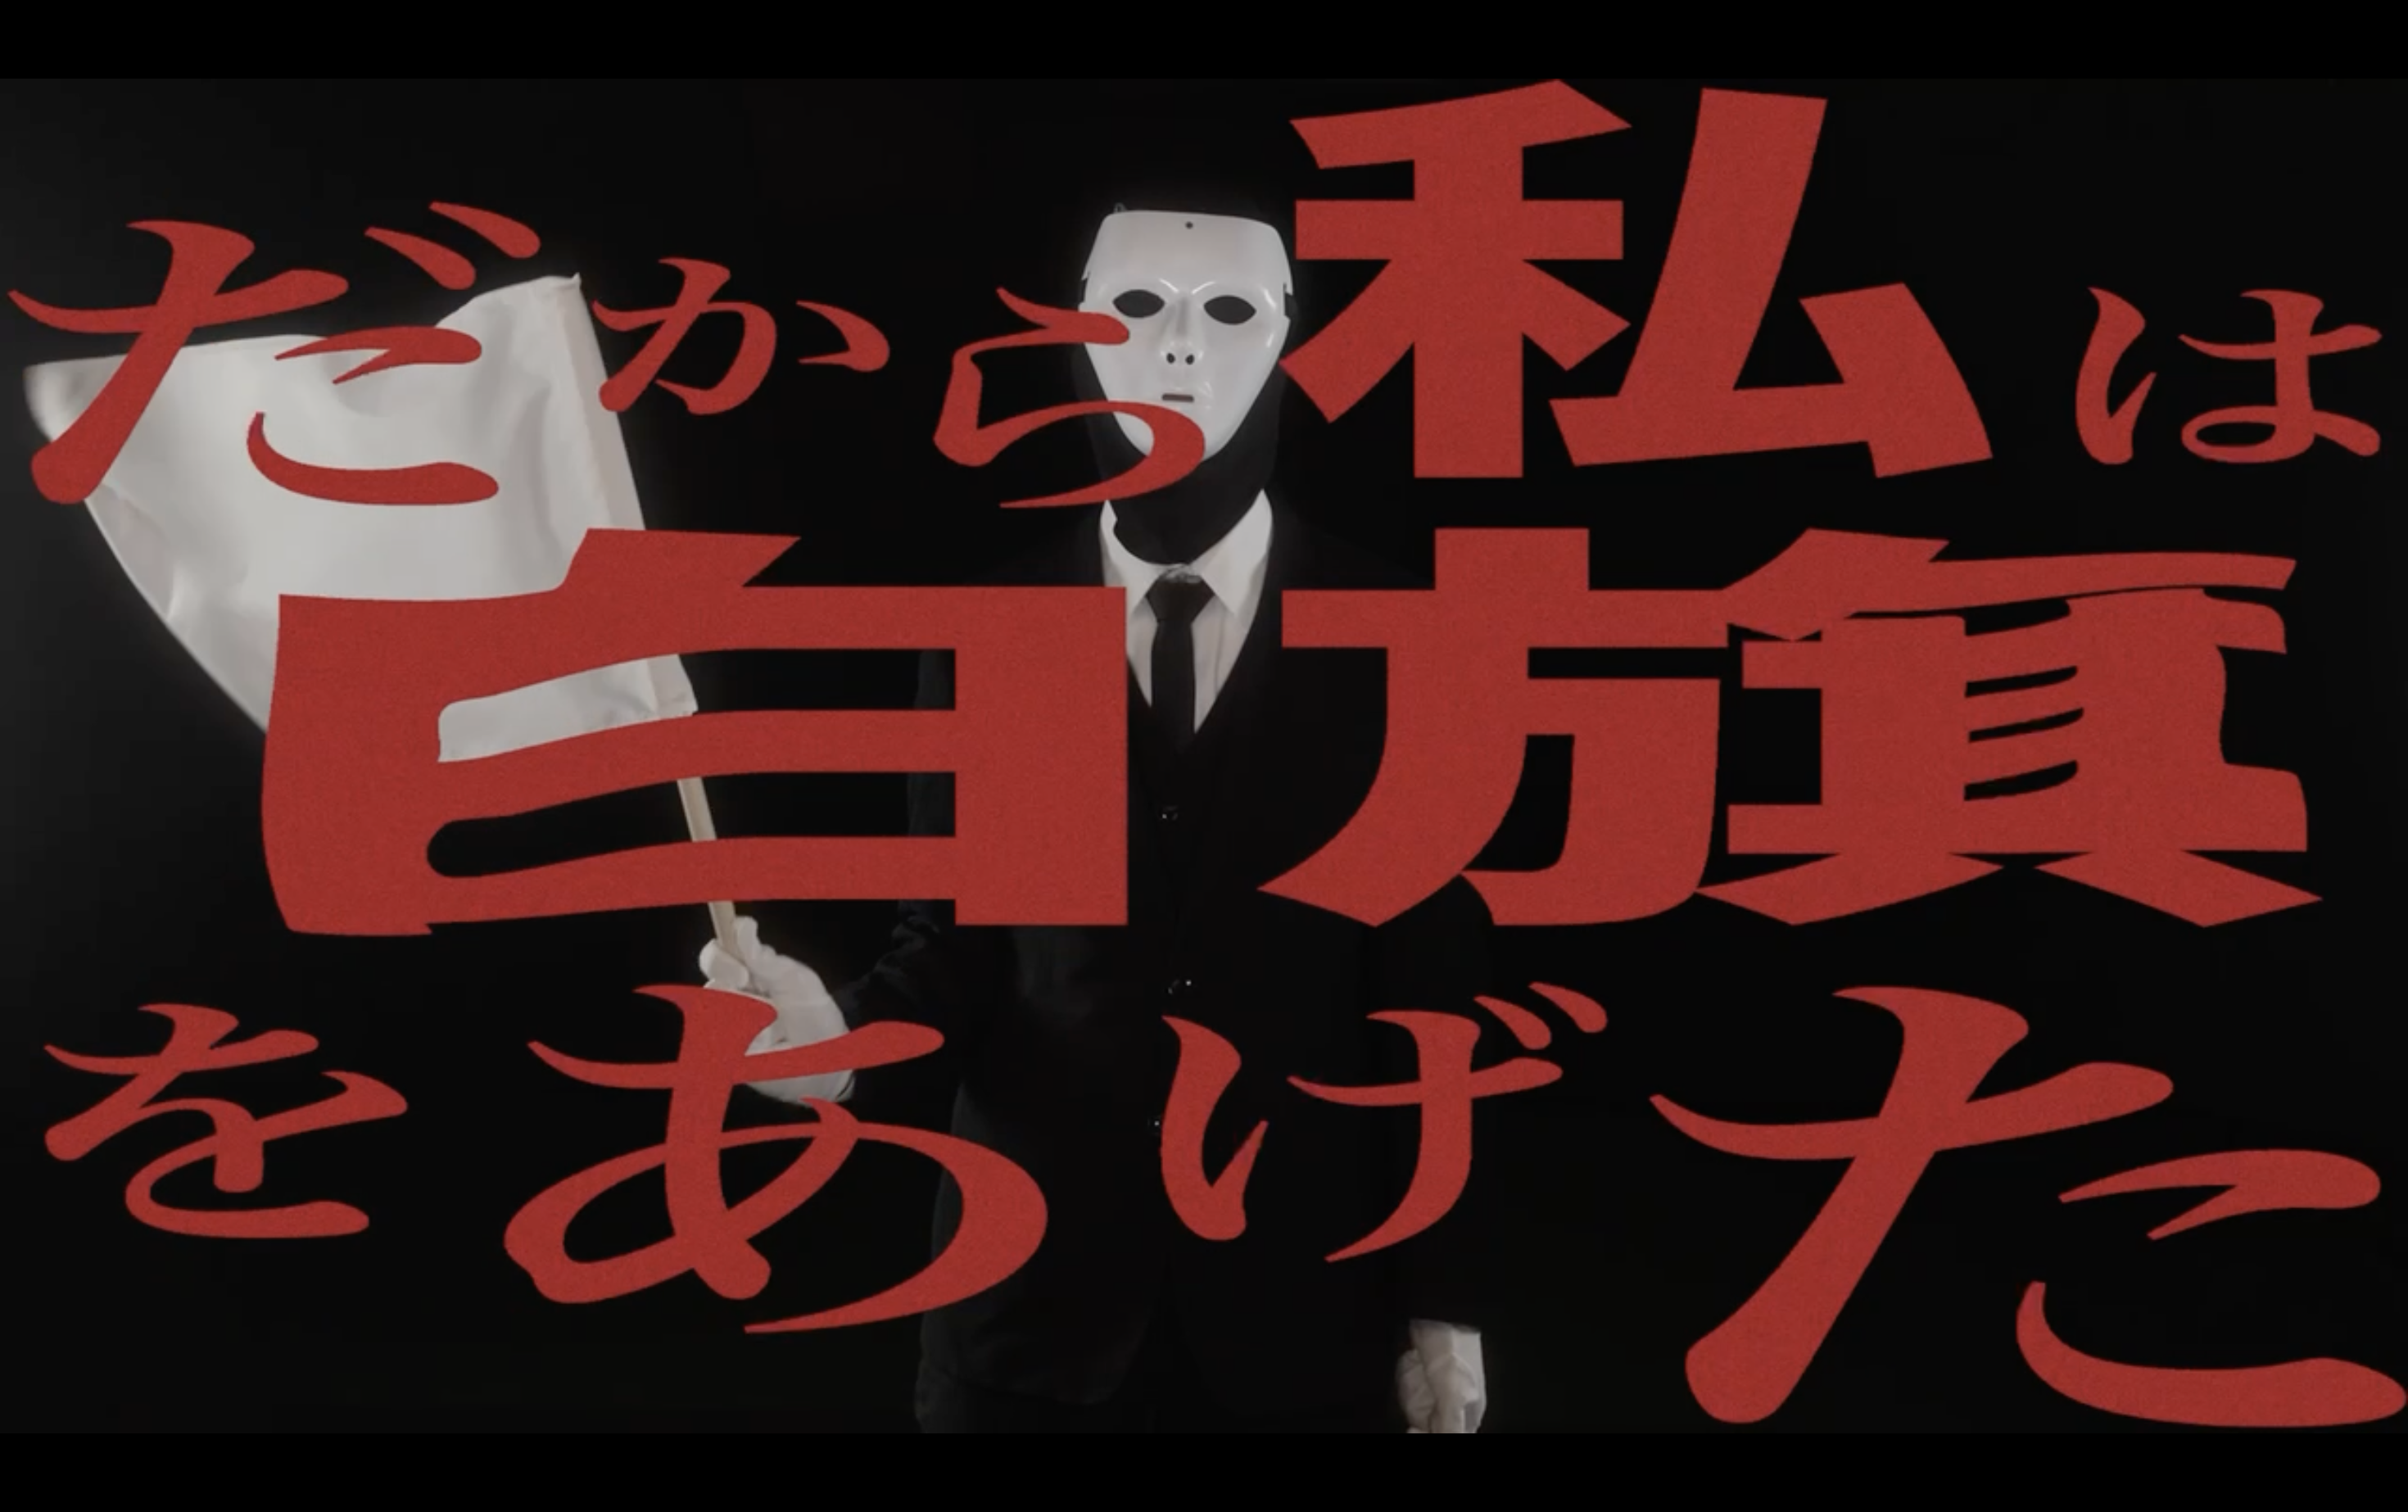
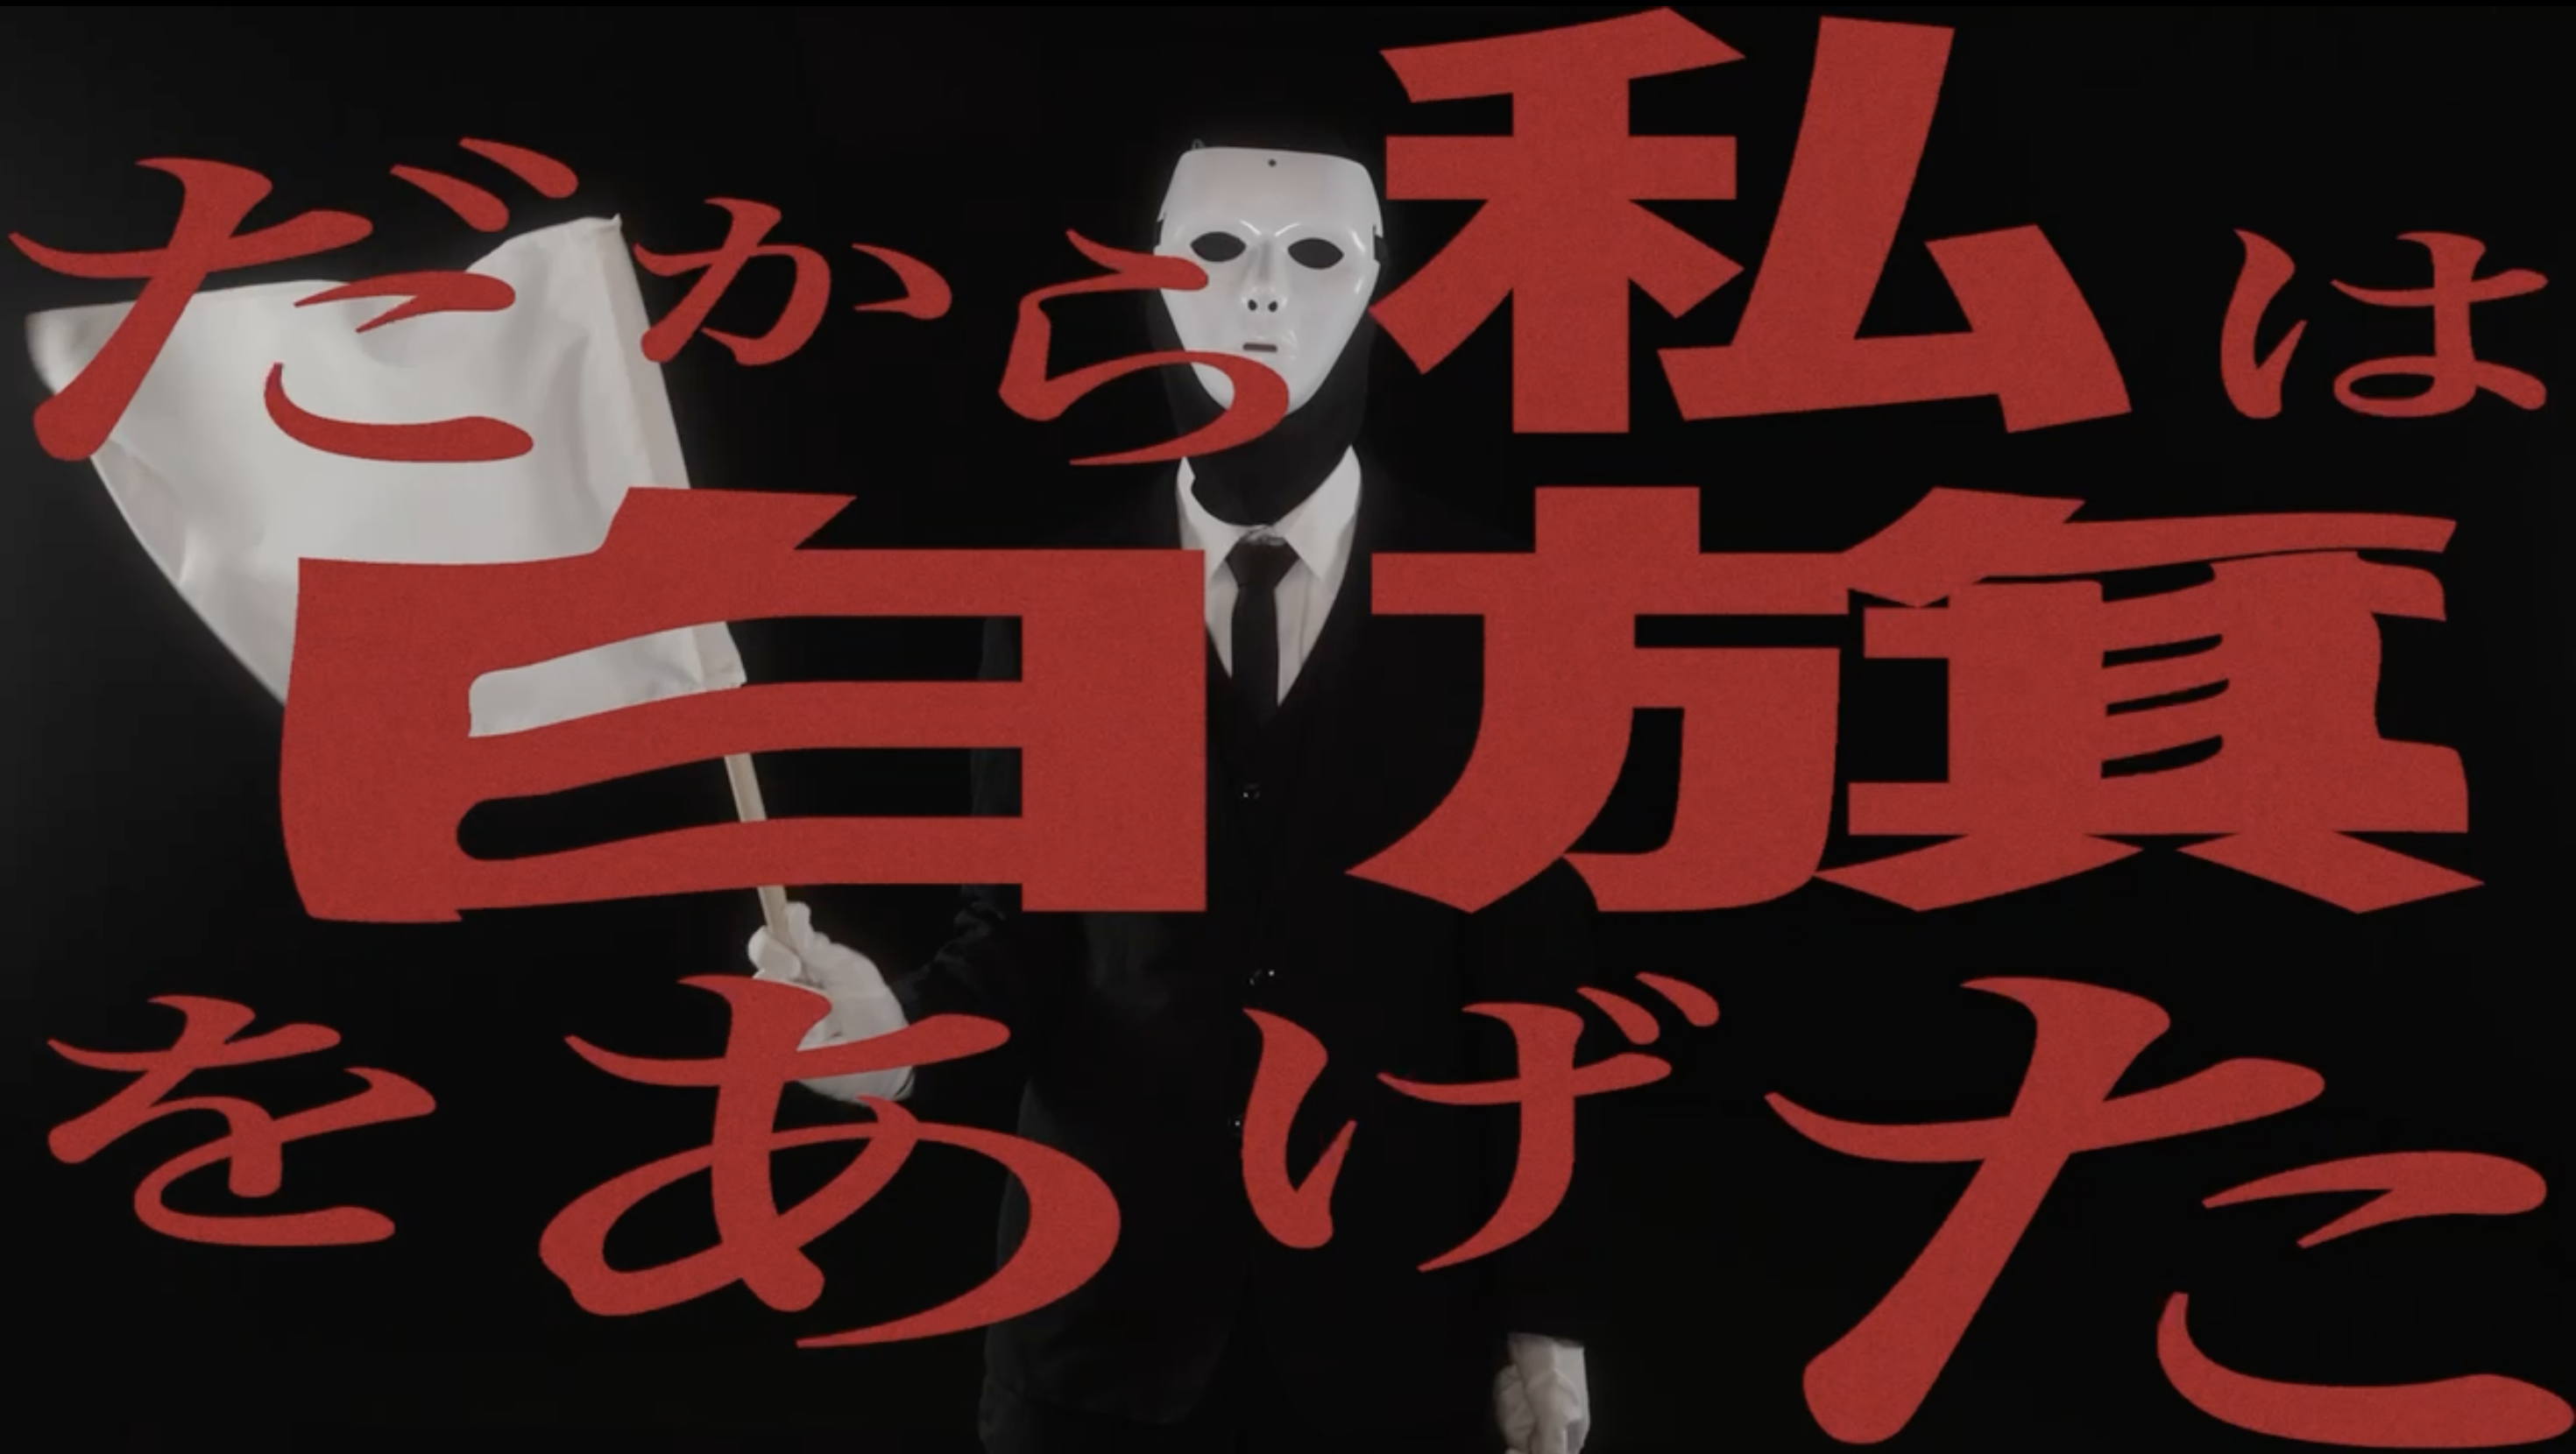
HTML / CSS / js
worksパージのほとんどが完成
残り作業：作品の数を増やす
　　　　　スマホ版を作る

diff --git a/works_style.css b/works_style.css
@@ -38,6 +38,19 @@ body {
     letter-spacing: 30%; /*文字間隔*/
 }
 
+/*uparrow*/
+.uparrow {
+    /*画面上に固定*/
+    position: fixed;
+    top: 650px;
+    right: 35px;
+
+    z-index: 100;
+}
+
+.uparrow img {
+    width: 50px;
+}
 
 /*nav*/
 nav {
@@ -118,160 +131,87 @@ nav li a {
 }
 
 
-/*works*/
-.description {
+/*works-tag, title*/
+.works-collections {
     display: flex;
     justify-content: center;
-    text-align: center;
-    font-size: 16px;
-    line-height: 1.6;
-}
-
-.form-container {
-    display: flex;
-    justify-content: center;
-    padding-top: 30px;
-}
-
-form {
-    display: flex;
     flex-direction: column;
-    padding: 60px 70px 50px;
-    width: 850px;
-    height: auto;
-    background-color: rgba(255, 255, 255, 0.1);
-    border-radius: 40px;
-    gap: 60px;
+    padding-left: 150px;
+    padding-right: 150px;
 }
 
-.form-group {
+.tag {
     display: flex;
-    justify-content: space-between;
-}
-
-.form-group-title {
-    font-size: 20px;
-}
-
-.form-group-title .any {
-    font-size: 14px;
-    font-weight: 400;
-    color: #D9D9D9;
-    padding-top: 9px;
-}
-
-.form-group input {
-    width: 500px;
-    height: 60px;
-    background-color: white;
-    border-radius: 35px;
-    border: 1px solid #D9D9D9;
-    color: #261814;
-    padding-left: 35px;
-    padding-right: 35px;
-    font-size: 16px;
-    font-weight: 600;
-}
-
-.form-group input::placeholder {
-    color: #D1D1D1;
-}
-
-fieldset {
-    display: flex;
-    width: 100%;
-    gap: 80px;
-}
-
-.select {
-    /*基準(radioボタンと連携させるため)*/
-    position: relative;
-    display: flex;
-    align-items: center;
-}
-
-.select input[type="radio"] {
-    /*display: none;だと読み上げ機能に反応しなくなる*/
-    opacity: 0; /*透明化*/
-    width: 100%;
-    height: 100%;
-
-    /*絶対値配置*/
-    position: absolute;
-    top: 0;
-    left: 0;
-
-    z-index: 2;
-}
-
-.select .circle-btn {
-    display: flex;
-    justify-content: center;
-    align-items: center;
-    width: 25px;
-    height: 25px;
-    background-color: white;
-    border: 1px solid #D9D9D9;
-    border-radius: 50%;
-    margin-right: 10px;
-}
-
-.select .in-circle {
-    width: 17px;
-    height: 17px;
-    border-radius: 50%;
-}
-
-.select .in-circle-click {
-    background-color: #261814;
-}
-
-
-.checkbox-group {
-    display: flex;
-    flex-direction: column;
     gap: 15px;
+    padding-top: 30px;
+    padding-bottom: 60px;
 }
 
-.checkbox-title {
-    font-size: 16px;
-    font-weight: 600;
-    color: #261814;
-    
-    padding-top: 2px;/*強制中央(透明化したradioの枠線の分？)*/
-}
-
-.form-content textarea {
-    width: 100%;
-    max-width: 710px;
-    min-width: 710px;
-    min-height: 200px;
+.tag-btn {
+    width: auto;
+    height: 38px;
+    padding-left: 15px;
+    padding-right: 15px;
     background-color: white;
-    border-radius: 35px;
-    border: 1px solid #D9D9D9;
+    color: #B4937C;
+    border-radius: 19px;
+    font-weight: 600;
+    font-size: 14px;
+}
+
+.select-tag {
     color: #261814;
-    padding: 20px 35px;
+}
+
+/*collection*/
+.works-grid {
+    display: grid;
+    grid-template-columns: 1fr 1fr 1fr;
+    gap: 70px 40px;
+}
+
+.works-grid article {
+    display: flex;
+    flex-direction: column;
+    gap: 10px;
+}
+
+.collection {
+    width: 100%;
+    aspect-ratio: 16 / 9;
+    border: 1px solid #261814;
+    overflow: hidden; /*無駄な部分を隠す*/
+}
+
+.collection img {
+    width: 100%;
+    margin-bottom: 0;
+}
+
+.collection-title {
     font-size: 16px;
     font-weight: 600;
-    margin-top: 30px;
 }
 
-.form-content textarea::placeholder {
-    color: #D1D1D1;
+.collection-tags {
+    display: flex;
+    gap: 10px;
 }
 
-.form-btn {
-    text-align: center;
-    padding-top: 12px;
-}
-
-.form-btn button {
-    width: 300px;
-    height: 80px;
-    border-radius: 45px;
-    font-size: 20px;
+.collection-tag {
+    display: inline-flex;
+    align-items: center;
+    width: auto;
+    height: 22px;
+    padding-left: 9px;
+    padding-right: 9px;
+    background-color: white;
+    color: #B4937C;
+    border-radius: 11px;
     font-weight: 600;
+    font-size: 10px;
 }
+
 
 /*copyright*/
 .copyright {
@@ -282,9 +222,6 @@ fieldset {
     padding-bottom: 15px;
 }
 
-/*-----------------------------------------------------------------------*/
-@media (max-width: 900px) {
-}
 /*-----------------------------------------------------------------------*/
 @media (max-width: 800px) {
     .section-title {
@@ -343,6 +280,9 @@ fieldset {
     .snsaicon {
         margin-top: 50px;
     }
+    .uparrow {
+        display: none;
+    }
 }
 /*-----------------------------------------------------------------------*/
 @media (max-width: 600px) {
@@ -371,4 +311,8 @@ fieldset {
     color: white;
     background-color: #B4937C;
     border: 1px solid white;
+}
+.hover-arrow:hover {
+    background-color: white;
+    border-radius: 50%;
 }

diff --git a/works.html b/works.html
@@ -42,14 +42,91 @@
                         <a class="hover-nav sns-aicon" href="https://tiktok.com/@trading_gau" target="_blank" rel="noopener noreferrer"><img src="images/sns/tiktok-logo1.svg" alt="TikTok"></a>
                         <a class="hover-nav sns-aicon" href="https://x.com/toga_ri?s=11" target="_blank" rel="noopener noreferrer"><img src="images/sns/x-logo1.svg" alt="X"></a>
                     </div>
+
+                    <a href="#top" class="uparrow hover-arrow"><img src="images/arrow/arrow-circle-up1.svg" alt="Topbottan"></a>
                 </div>
             </section>
             
+
             <section class="works">
                 <div class="section-title">
                     <h2>Works</h2>
                 </div>
 
+                <div class="works-collections">
+                    <div class="tag">
+                        <button class="tag-btn select-tag">#ALL</button>
+                        <button class="tag-btn">#映像</button>
+                        <button class="tag-btn">#イラスト</button>
+                        <button class="tag-btn">#3DCG</button>
+                        <button class="tag-btn">#Webデザイン</button>
+                        <button class="tag-btn">#音楽</button>
+                    </div>
+
+                    <div class="works-grid">
+                        <!--PC1行目-->
+                        <article>
+                            <div class="collection">
+                                <img src="images/collection/music/ginger-video.png" alt="TOMOO-Ginger 音楽Copyの音楽">
+                            </div>
+                            <h4 class="collection-title">TOMOO-Ginger 音楽Copy</h4>
+                            <div class="collection-tags">
+                                <div class="collection-tag">#音楽</div>
+                            </div>
+                        </article>
+
+                        <article>
+                            <div class="collection">
+                                <img src="images/collection/CG/sun.png" alt="太陽系-宇宙空間の映像">
+                            </div>
+                            <h4 class="collection-title">太陽系-宇宙空間</h4>
+                            <div class="collection-tags">
+                                <div class="collection-tag">#3DCG</div>
+                            </div>
+                        </article>
+
+                        <article>
+                            <div class="collection">
+                                <img src="images/collection/movie/shiro.png" alt="第6回TYO学生ムービーアワードの映像">
+                            </div>
+                            <h4 class="collection-title">だから私は白旗をあげた / 第6回TYO学生ムービーアワード</h4>
+                            <div class="collection-tags">
+                                <div class="collection-tag">#映像</div>
+                            </div>
+                        </article>
+
+                        <!--PC2行目-->
+                        <article>
+                            <div class="collection">
+                                <img src="images/collection/CG/pokemon-img.png" alt="Pokémon-Halloween Partyの画像">
+                            </div>
+                            <h4 class="collection-title">Pokémon-Halloween Party</h4>
+                            <div class="collection-tags">
+                                <div class="collection-tag">#3DCG</div>
+                            </div>
+                        </article>
+
+                        <article>
+                            <div class="collection">
+                                <img src="images/collection/movie/op1.png" alt="オープニング映像">
+                            </div>
+                            <h4 class="collection-title">OP映像 / Cyber style</h4>
+                            <div class="collection-tags">
+                                <div class="collection-tag">#映像</div>
+                            </div>
+                        </article>
+
+                        <article>
+                            <div class="collection">
+                                <img src="images/collection/CG/pokemon1.png" alt="Pokémonの映像">
+                            </div>
+                            <h4 class="collection-title">Pokémon / CG映像</h4>
+                            <div class="collection-tags">
+                                <div class="collection-tag">#映像</div>
+                                <div class="collection-tag">#3DCG</div>
+                            </div>
+                        </article>
+                    </div>
                 </div>
             </section>
 

diff --git a/js/works.js b/js/works.js
@@ -23,3 +23,19 @@ document.querySelector(".burger").addEventListener('click', () => {
         document.querySelector(".burger").classList.remove('burger-open');
     }
 });
+
+/*arrowをhover差し替え*/
+document.querySelectorAll(".hover-arrow").forEach((aicon) => {
+    const whiteSrc = aicon.querySelector('img').src;
+    //〇〇.replace(◻︎, △) -> 〇〇の画像名が入る(◻︎までを、△に変更)
+    const brownSrc = whiteSrc.replace('.svg', '_brown.svg');
+
+    aicon.addEventListener('mouseenter', () => {
+        aicon.querySelector('img').src = brownSrc;
+    });
+    aicon.addEventListener('mouseleave', () => {
+        aicon.querySelector('img').src = whiteSrc;
+    });
+});
+
+

diff --git a/README.md b/README.md
@@ -13,7 +13,7 @@ Webデザインおよび演習のリポジトリ作成！
 ・右下の上矢印btnからtopに戻れる
 ・画面サイズが小さいとハンバーガーが出てくる(操作可能)
 
-
+・タグをクリックで種別に作品を見せる
 
 
 工夫点